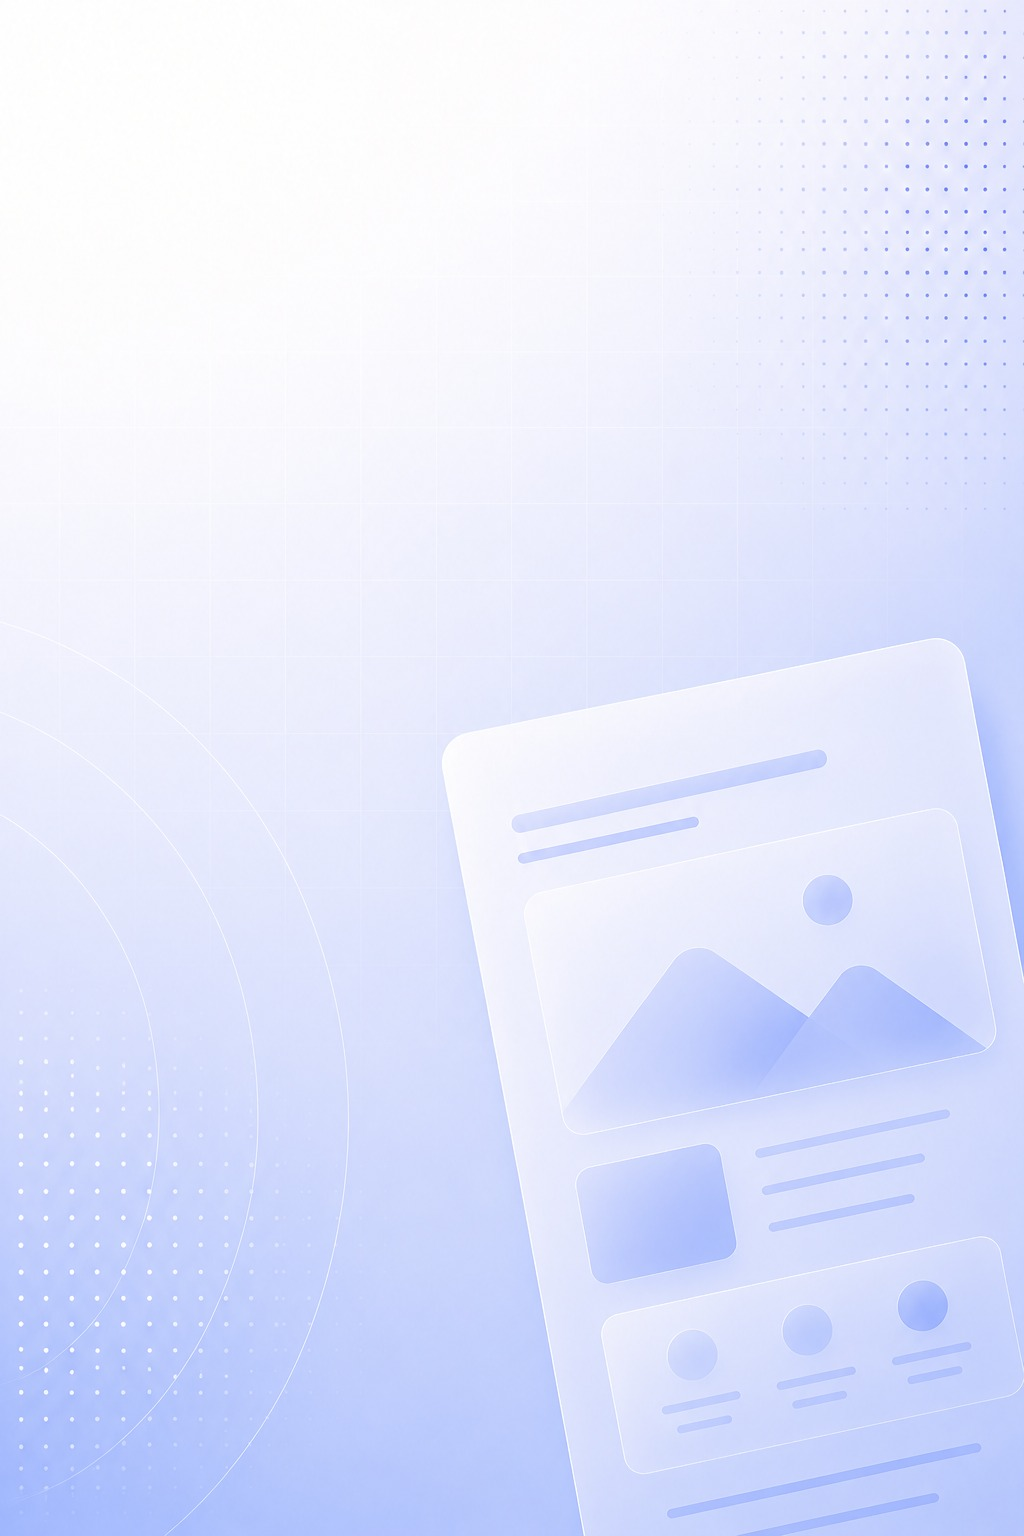
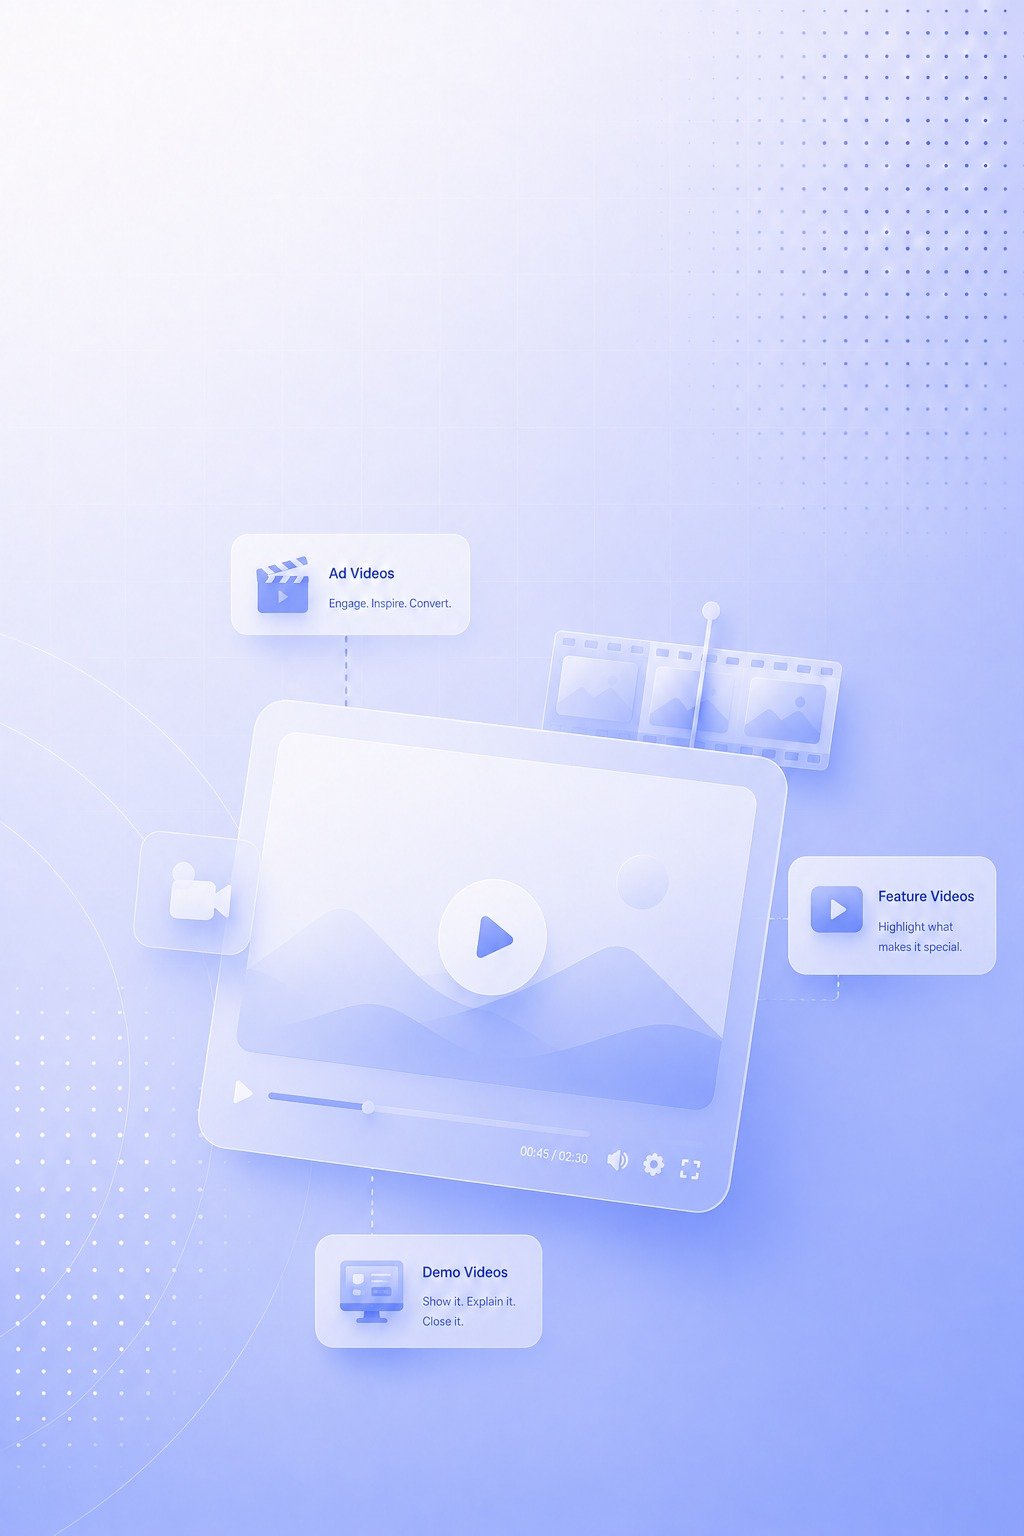
v 7

diff --git a/pages/Portfolio/components/CapabilityCards/index.tsx b/pages/Portfolio/components/CapabilityCards/index.tsx
@@ -7,6 +7,7 @@ import probgImage from "@/src/assets/probg.png";
 import marbgImage from "@/src/assets/marbg.jpeg";
 import salbgImage from "@/src/assets/salbg.jpeg";
 import digbgImage from "@/src/assets/digbg.jpeg";
+import gmtbgImage from "@/src/assets/gmtbg.jpeg";
 
 // These titles otherwise stay on one line at wide desktop widths; capping
 // their width forces the same natural two-line wrap "Technical Documentation"
@@ -59,6 +60,7 @@ export function CapabilityCards() {
           const isProductMarketing = title === "Product Marketing";
           const isSalesEnablement = title === "Sales Enablement";
           const isDigitalExperience = title === "Digital Experience";
+          const isGTMStrategy = title === "GTM Strategy";
           const cardBgImage = isTechnicalDocumentation
             ? tecbgImage
             : isProductExperience
@@ -69,7 +71,9 @@ export function CapabilityCards() {
                   ? salbgImage
                   : isDigitalExperience
                     ? digbgImage
-                    : undefined;
+                    : isGTMStrategy
+                      ? gmtbgImage
+                      : undefined;
           return (
           <Link
             key={number}
@@ -93,20 +97,20 @@ export function CapabilityCards() {
                 <span className="relative text-xs font-medium text-neutral-400">
                   {number}
                 </span>
-                <h3
-                  className={`relative mt-4 text-xl font-bold tracking-tight text-neutral-950 ${
-                    TWO_LINE_TITLES.has(title) ? "lg:max-w-[115px]" : ""
-                  }`}
-                >
+                <h3 className="relative mt-4 text-xl font-bold tracking-tight text-neutral-950">
                   {title}
                 </h3>
-                <p className="relative mt-2 text-sm leading-relaxed text-neutral-500">
-                  {description}
-                </p>
+                <ul className="relative mt-4 space-y-2.5">
+                  {bullets.map((bullet) => (
+                    <li key={bullet} className="text-xs text-neutral-500">
+                      • {bullet}
+                    </li>
+                  ))}
+                </ul>
 
                 <span
                   aria-hidden="true"
-                  className="absolute bottom-5 right-5 flex h-9 w-9 items-center justify-center rounded-full border border-neutral-200 text-[#0020BF]"
+                  className="absolute bottom-5 right-5 flex h-9 w-9 items-center justify-center rounded-full border border-[#0020BF] bg-[#0020BF] text-white"
                 >
                   <ArrowRight className="h-4 w-4" />
                 </span>
@@ -123,20 +127,20 @@ export function CapabilityCards() {
                 <span className="relative text-xs font-medium text-neutral-400">
                   {number}
                 </span>
-                <h3 className="relative mt-4 text-xl font-bold tracking-tight text-neutral-950">
+                <h3
+                  className={`relative mt-4 text-xl font-bold tracking-tight text-neutral-950 ${
+                    TWO_LINE_TITLES.has(title) ? "lg:max-w-[115px]" : ""
+                  }`}
+                >
                   {title}
                 </h3>
-                <ul className="relative mt-4 space-y-2.5">
-                  {bullets.map((bullet) => (
-                    <li key={bullet} className="text-xs text-neutral-500">
-                      • {bullet}
-                    </li>
-                  ))}
-                </ul>
+                <p className="relative mt-2 text-sm leading-relaxed text-neutral-500">
+                  {description}
+                </p>
 
                 <span
                   aria-hidden="true"
-                  className="absolute bottom-5 right-5 flex h-9 w-9 items-center justify-center rounded-full border border-[#0020BF] bg-[#0020BF] text-white"
+                  className="absolute bottom-5 right-5 flex h-9 w-9 items-center justify-center rounded-full border border-neutral-200 text-[#0020BF]"
                 >
                   <ArrowRight className="h-4 w-4" />
                 </span>

diff --git a/pages/Portfolio/components/Hero/index.tsx b/pages/Portfolio/components/Hero/index.tsx
@@ -7,9 +7,9 @@ export function Hero() {
   return (
     <div className="bg-[#FCFCFD]">
       {/* Hero Grid */}
-      <div className="grid grid-cols-1 gap-8 lg:grid-cols-12 lg:gap-8">
+      <div className="grid grid-cols-1 gap-8 lg:grid-cols-[calc(66.6667%+43px)_calc(33.3333%-43px)] lg:gap-8">
         {/* Left: Hero Content + Illustration + Stats */}
-        <div className="lg:col-span-8">
+        <div>
           <div className="grid grid-cols-1 gap-8 lg:grid-cols-9 lg:gap-12">
             {/* Hero Content */}
             <div className="flex items-center lg:col-span-5 lg:items-start">
@@ -27,13 +27,13 @@ export function Hero() {
           </div>
 
           {/* Stats Bar */}
-          <div className="mt-10 w-full">
+          <div className="mt-10 w-full [transform:translateX(-16px)]">
             <Stats />
           </div>
         </div>
 
         {/* Right: Featured Clients */}
-        <div className="lg:col-span-4 lg:border-l lg:border-neutral-200 lg:pl-8">
+        <div className="lg:border-l lg:border-neutral-200 lg:pl-8">
           <FeaturedClients />
         </div>
       </div>

diff --git a/pages/Portfolio/index.tsx b/pages/Portfolio/index.tsx
@@ -12,12 +12,12 @@ export default function Portfolio() {
         </section>
 
         {/* Capability Cards Section */}
-        <section className="pt-2 pb-8 sm:pt-4 sm:pb-10 lg:pt-5 lg:pb-12">
+        <section className="pt-2 pb-8 sm:pt-4 sm:pb-10 lg:pt-5 lg:pb-12 [transform:translateX(-16px)]">
           <CapabilityCards />
         </section>
 
         {/* Process Timeline Section */}
-        <section className="pt-10 sm:pt-12 lg:pt-16 pb-20 sm:pb-24 lg:pb-32">
+        <section className="pt-10 sm:pt-12 lg:pt-16 pb-20 sm:pb-24 lg:pb-32 [transform:translateX(-16px)]">
           <ProcessTimeline />
         </section>
       </div>

diff --git a/pages/Portfolio/components/FeaturedClients/index.tsx b/pages/Portfolio/components/FeaturedClients/index.tsx
@@ -17,7 +17,7 @@ export function FeaturedClients() {
       </p>
 
       {/* Heading */}
-      <h2 className="mt-4 text-3xl font-bold leading-tight tracking-tight text-neutral-950 sm:text-4xl lg:text-[40px]">
+      <h2 className="mt-4 text-3xl font-bold leading-tight tracking-tight text-neutral-950 sm:text-4xl lg:text-[38px]">
         Case studies that show{" "}
         <br className="hidden lg:block" />
         real outcomes
